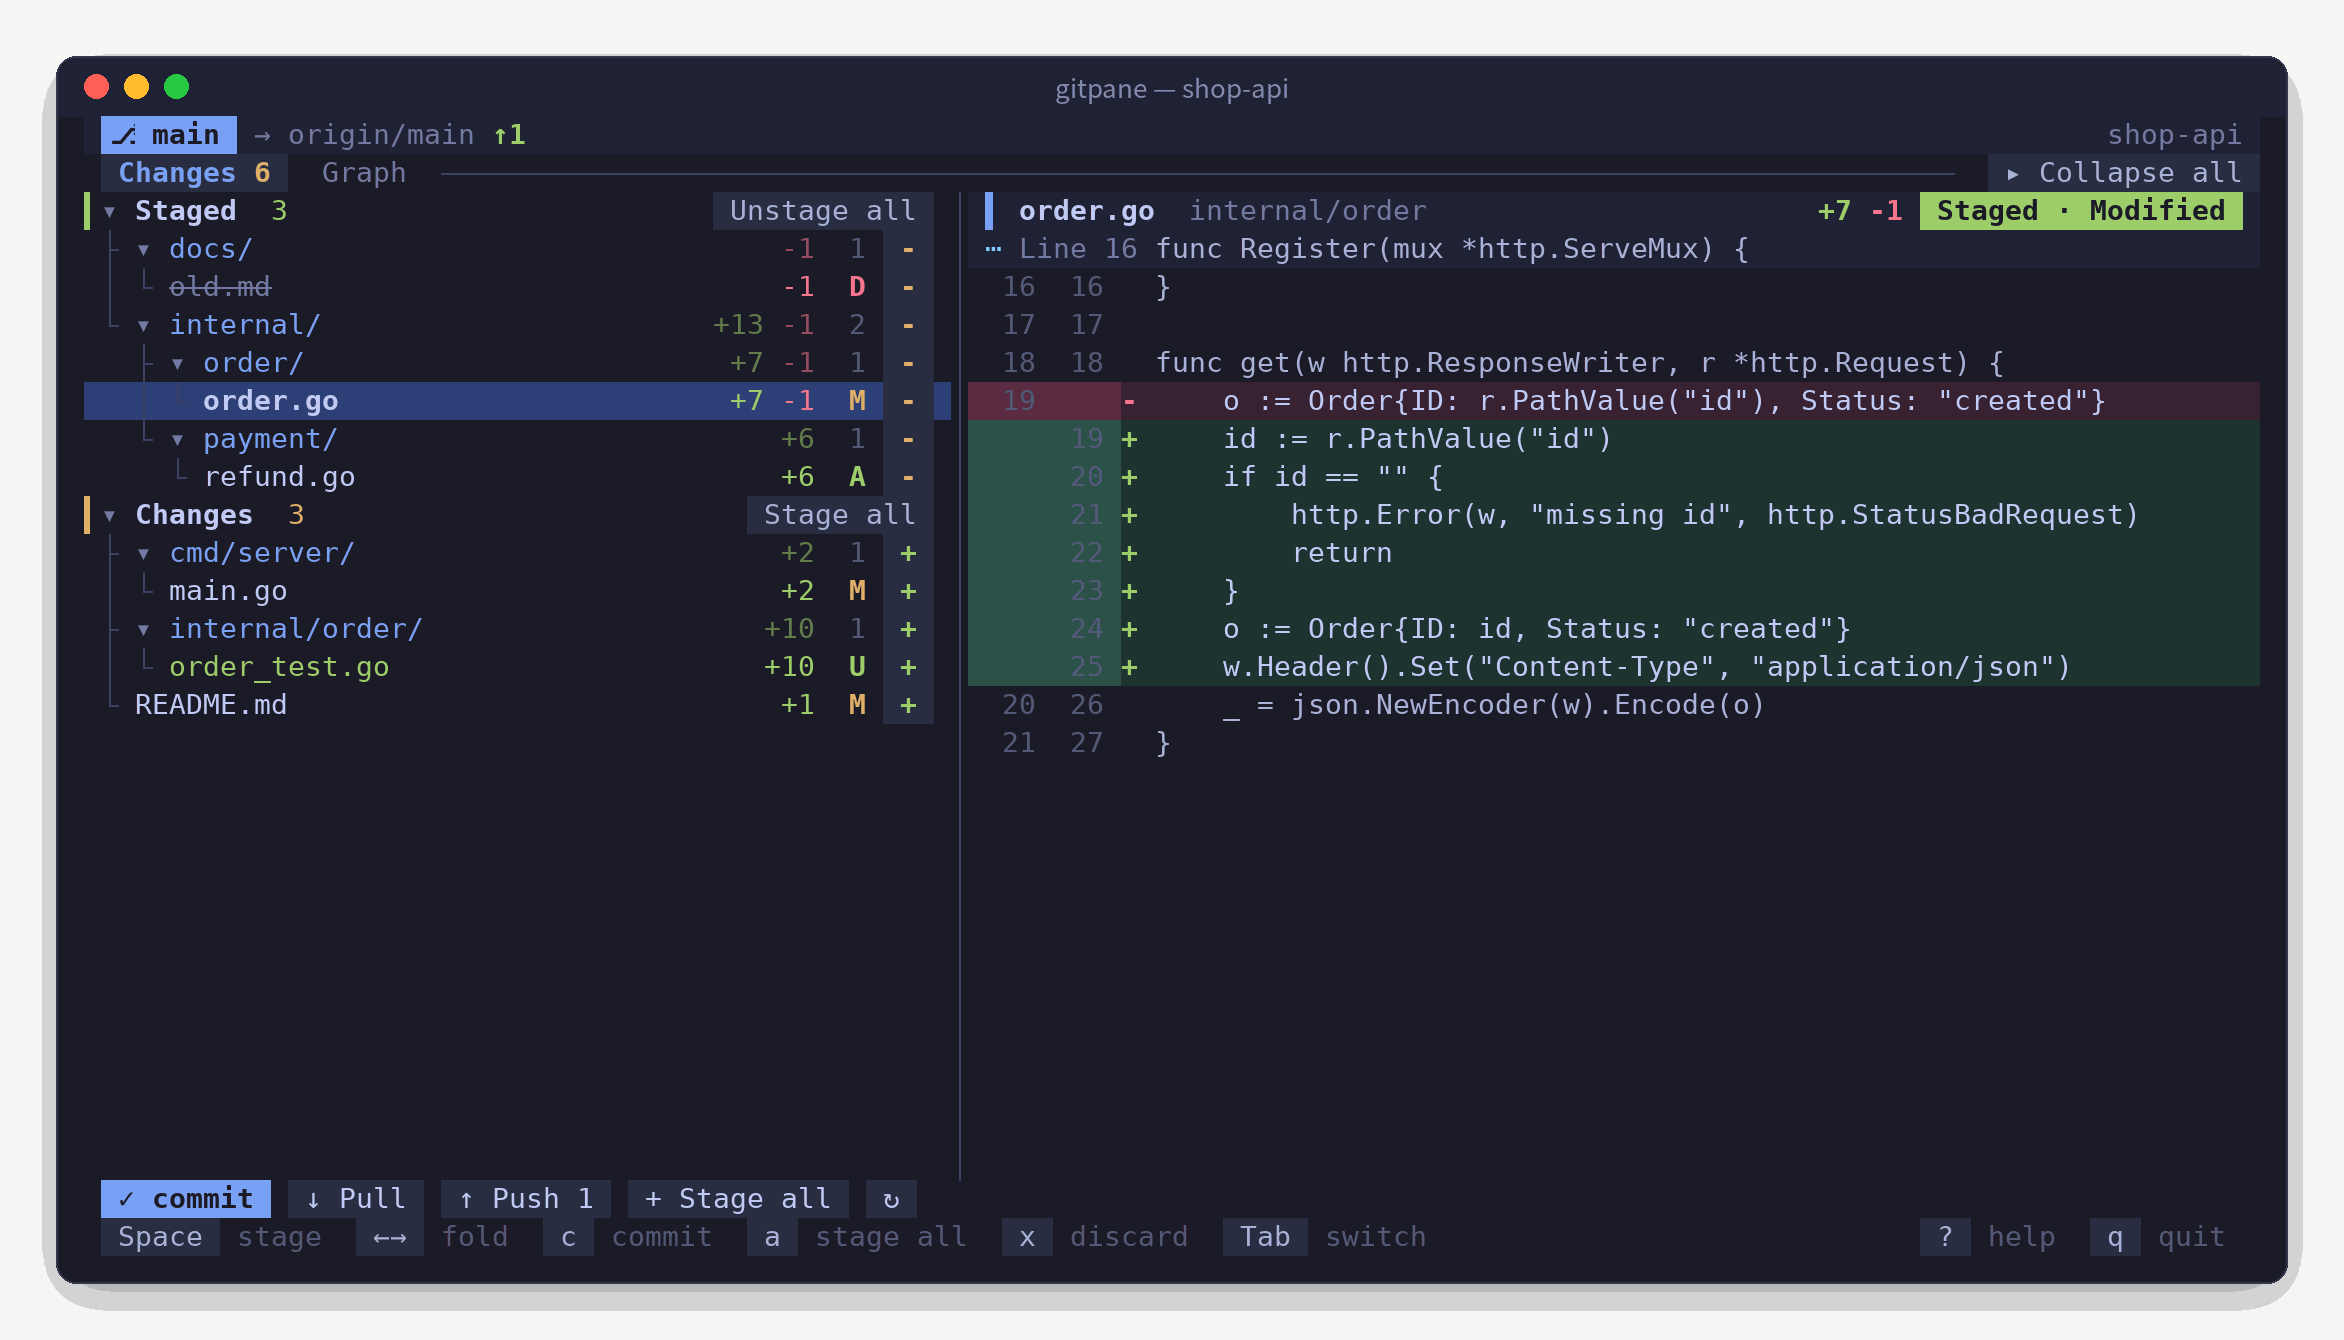
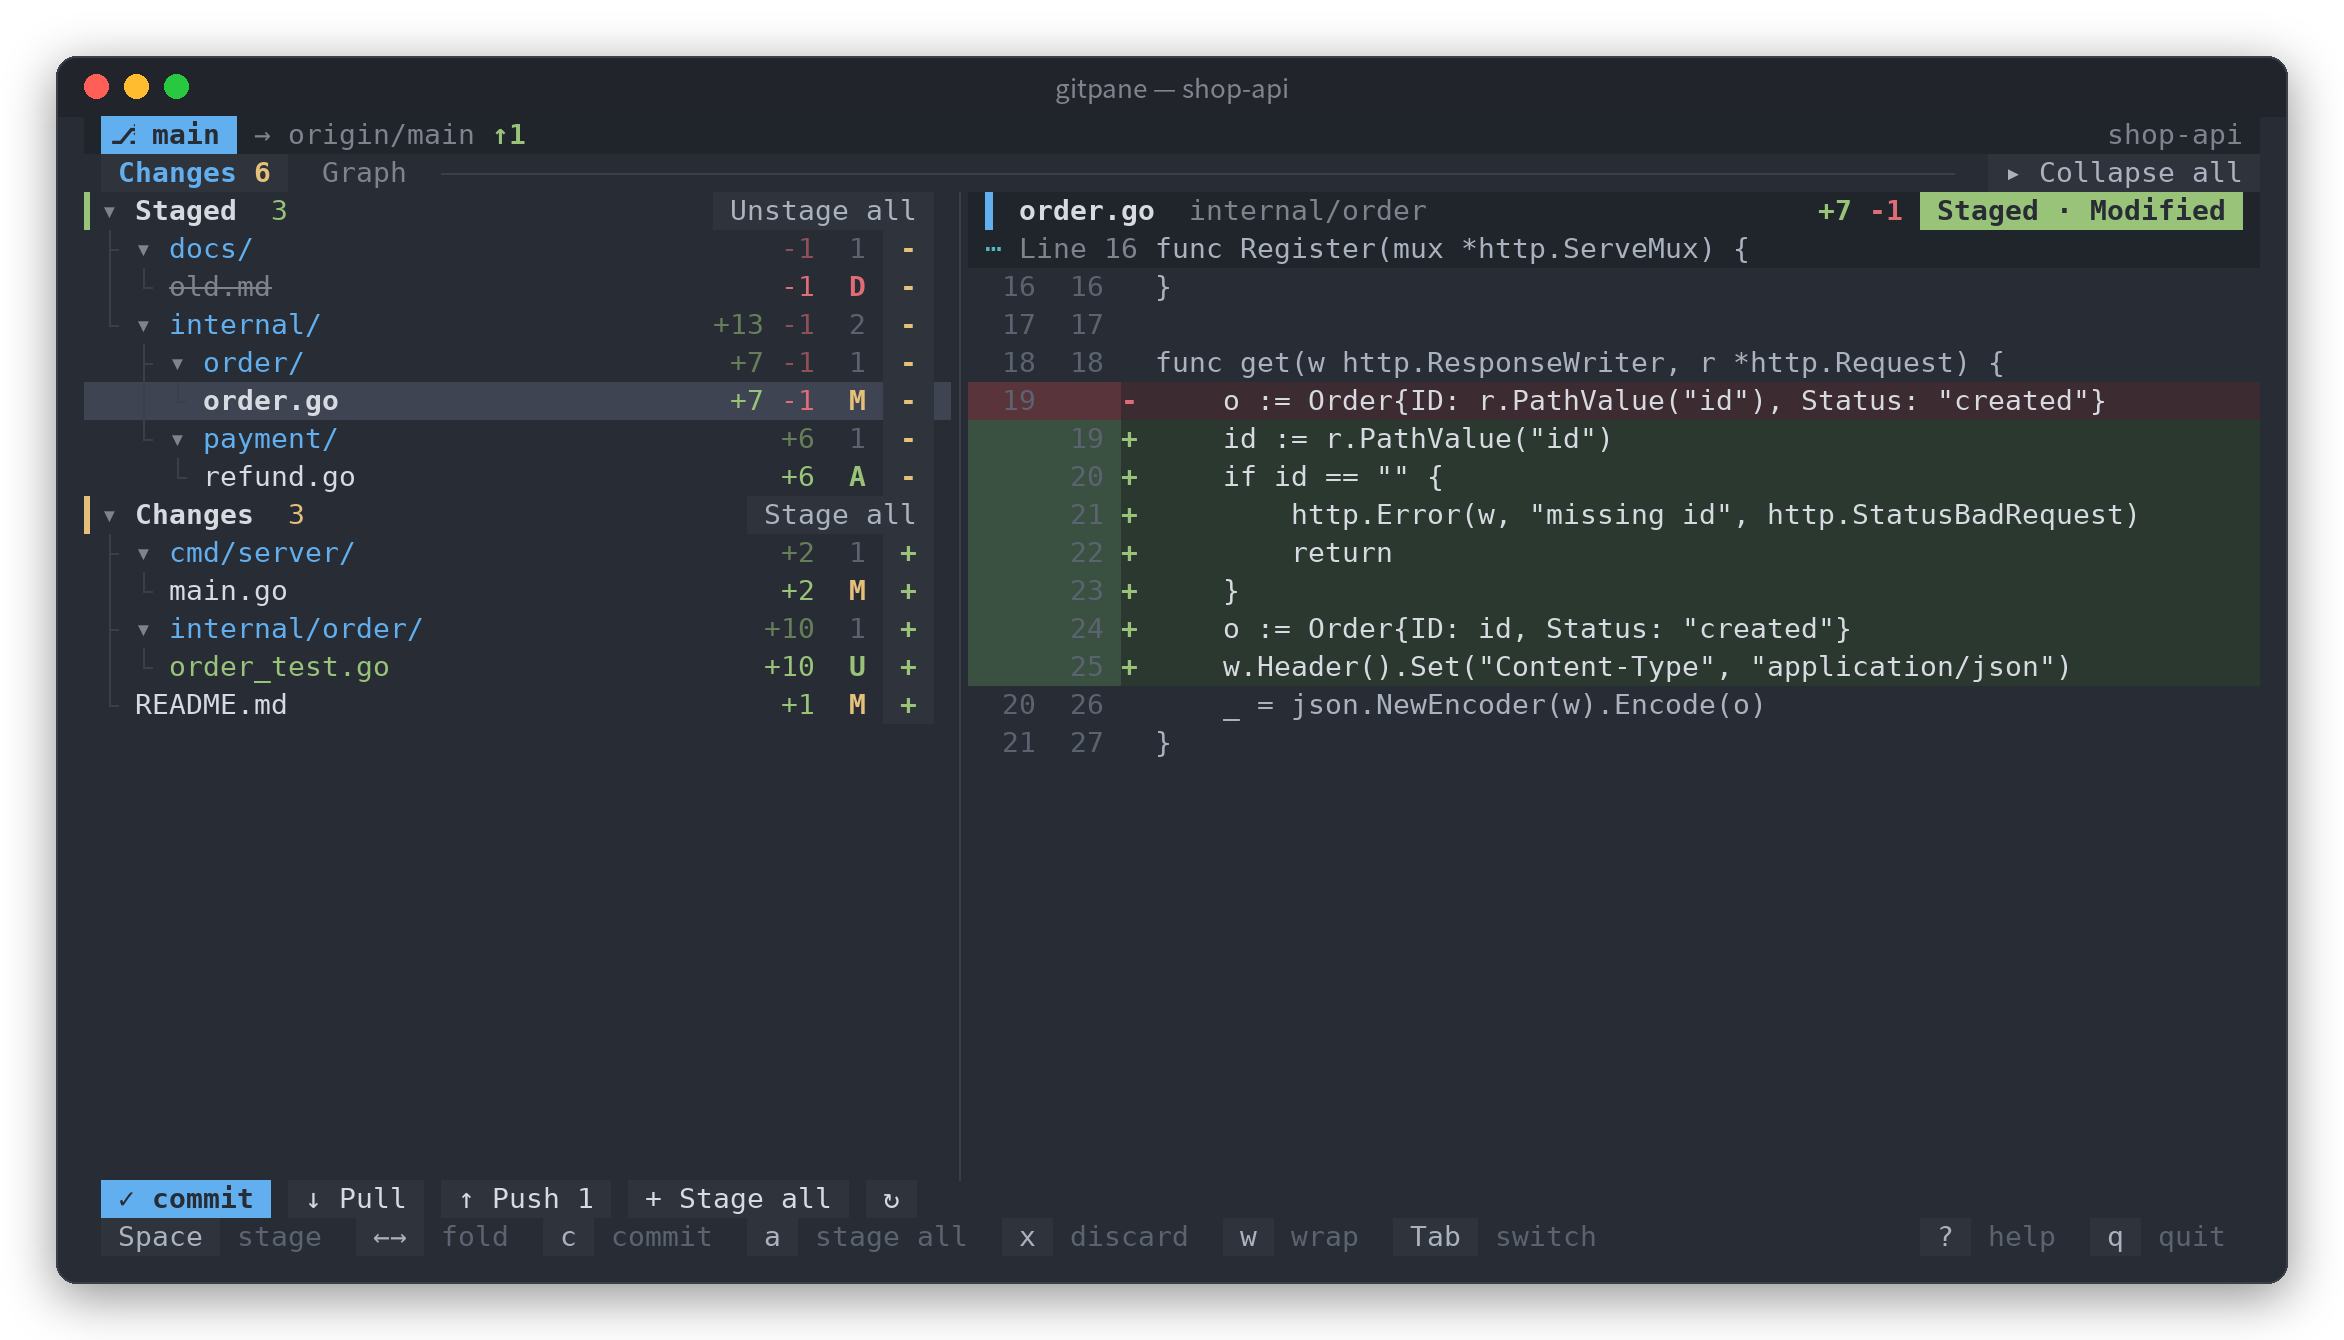
feat(ui): 配色改为 One Monokai（深色）/ One Light（浅色）
- 深色直接取自 VS Code 主题 One Monokai（azemoh.one-monokai）：
  #282c34 底色，蓝色强调，绿 / 粉红 / 紫 / 金 / 青分别用于增删、分支、标签等
- One Monokai 没有浅色版，浅色用同一体系的 One Light
- GITPANE_THEME 仍然只是 dark / light，用法不变
- README 的 15 张截图（5 种语言）用新配色重拍，致谢改为 One Monokai / One Light

Claude-Session: https://claude.ai/code/session_018xzTh6qgGnBH8RBGmXxLkY

diff --git a/internal/ui/theme.go b/internal/ui/theme.go
@@ -10,31 +10,33 @@ import (
 	"github.com/0xBB2B/gitpane/internal/i18n"
 )
 
-// 配色基于 Tokyo Night（深色）/ Tokyo Night Day（浅色），根据终端背景自动切换。
+// 配色：深色是 One Monokai（VS Code 主题 azemoh.one-monokai：One Dark 底色 +
+// Monokai 风格的语法色），浅色是同一体系的 One Light。根据终端背景自动切换，
+// 也可以用 GITPANE_THEME=dark|light 指定。
 type ac = lipgloss.AdaptiveColor
 
 var (
-	cText    = ac{Dark: "#c0caf5", Light: "#3760bf"}
-	cSub     = ac{Dark: "#a9b1d6", Light: "#4c5a8f"}
-	cMuted   = ac{Dark: "#737aa2", Light: "#7c84a8"}
-	cFaint   = ac{Dark: "#545c7e", Light: "#a1a6c5"}
-	cGuide   = ac{Dark: "#3b4261", Light: "#c4c8da"}
-	cAccent  = ac{Dark: "#7aa2f7", Light: "#2e7de9"}
-	cGreen   = ac{Dark: "#9ece6a", Light: "#587539"}
-	cYellow  = ac{Dark: "#e0af68", Light: "#8c6c3e"}
-	cOrange  = ac{Dark: "#ff9e64", Light: "#b15c00"}
-	cRed     = ac{Dark: "#f7768e", Light: "#f52a65"}
-	cPurple  = ac{Dark: "#bb9af7", Light: "#9854f1"}
-	cCyan    = ac{Dark: "#7dcfff", Light: "#007197"}
-	cOnPill  = ac{Dark: "#1a1b26", Light: "#ffffff"}
-	cBar     = ac{Dark: "#1f2335", Light: "#d6d9e6"}
-	cSurface = ac{Dark: "#292e42", Light: "#c8ccdd"}
-	cSel     = ac{Dark: "#2d3f76", Light: "#b6c3ea"}
-	cAddBg   = ac{Dark: "#1d3330", Light: "#d6e8cf"}
-	cDelBg   = ac{Dark: "#3a2232", Light: "#f3d6dc"}
-	cAddHi   = ac{Dark: "#2b5248", Light: "#bcdcae"}
-	cDelHi   = ac{Dark: "#5c2c42", Light: "#ebb6c1"}
-	cHunkBg  = ac{Dark: "#1f2335", Light: "#dfe2ee"}
+	cText    = ac{Dark: "#d7dae0", Light: "#383a42"}
+	cSub     = ac{Dark: "#abb2bf", Light: "#4f525e"}
+	cMuted   = ac{Dark: "#7f848e", Light: "#696c77"}
+	cFaint   = ac{Dark: "#5c6370", Light: "#a0a1a7"}
+	cGuide   = ac{Dark: "#3b4048", Light: "#d4d4d6"}
+	cAccent  = ac{Dark: "#61afef", Light: "#4078f2"}
+	cGreen   = ac{Dark: "#98c379", Light: "#50a14f"}
+	cYellow  = ac{Dark: "#e5c07b", Light: "#c18401"}
+	cOrange  = ac{Dark: "#d19a66", Light: "#986801"}
+	cRed     = ac{Dark: "#e06c75", Light: "#e45649"}
+	cPurple  = ac{Dark: "#c678dd", Light: "#a626a4"}
+	cCyan    = ac{Dark: "#56b6c2", Light: "#0184bc"}
+	cOnPill  = ac{Dark: "#282c34", Light: "#ffffff"}
+	cBar     = ac{Dark: "#21252b", Light: "#eaeaeb"}
+	cSurface = ac{Dark: "#2f333d", Light: "#e0e0e2"}
+	cSel     = ac{Dark: "#3e4451", Light: "#d7dae0"}
+	cAddBg   = ac{Dark: "#2b3830", Light: "#e2f0e0"}
+	cDelBg   = ac{Dark: "#3d2b31", Light: "#fbe1dd"}
+	cAddHi   = ac{Dark: "#3a5040", Light: "#c6e2c3"}
+	cDelHi   = ac{Dark: "#5a343b", Light: "#f5c3bb"}
+	cHunkBg  = ac{Dark: "#21252b", Light: "#f0f0f1"}
 )
 
 // 提交图谱每一列轮流使用的颜色。

diff --git a/README.en.md b/README.en.md
@@ -200,7 +200,7 @@ internal/ui/
   repos.go               repository picker and switching
   split.go               dragging and saving the list / detail divider
   tree.go                changed files → folder tree with guide lines
-  theme.go               Tokyo Night dark / light palettes, icons
+  theme.go               One Monokai / One Light palettes, icons
 ```
 
 ## Contributing
@@ -252,7 +252,7 @@ goreleaser release --snapshot --clean --skip=publish   # build everything into d
 ## Acknowledgements
 
 - [Bubble Tea](https://github.com/charmbracelet/bubbletea) / [Lip Gloss](https://github.com/charmbracelet/lipgloss) / [Bubbles](https://github.com/charmbracelet/bubbles): the TUI framework
-- [Tokyo Night](https://github.com/enkia/tokyo-night-vscode-theme): color inspiration
+- [One Monokai](https://github.com/azemoh/vscode-one-monokai) and [One Light](https://github.com/atom/atom/tree/master/packages/one-light-syntax): color palettes
 - [GoReleaser](https://goreleaser.com): cross-platform releases
 
 ## License
